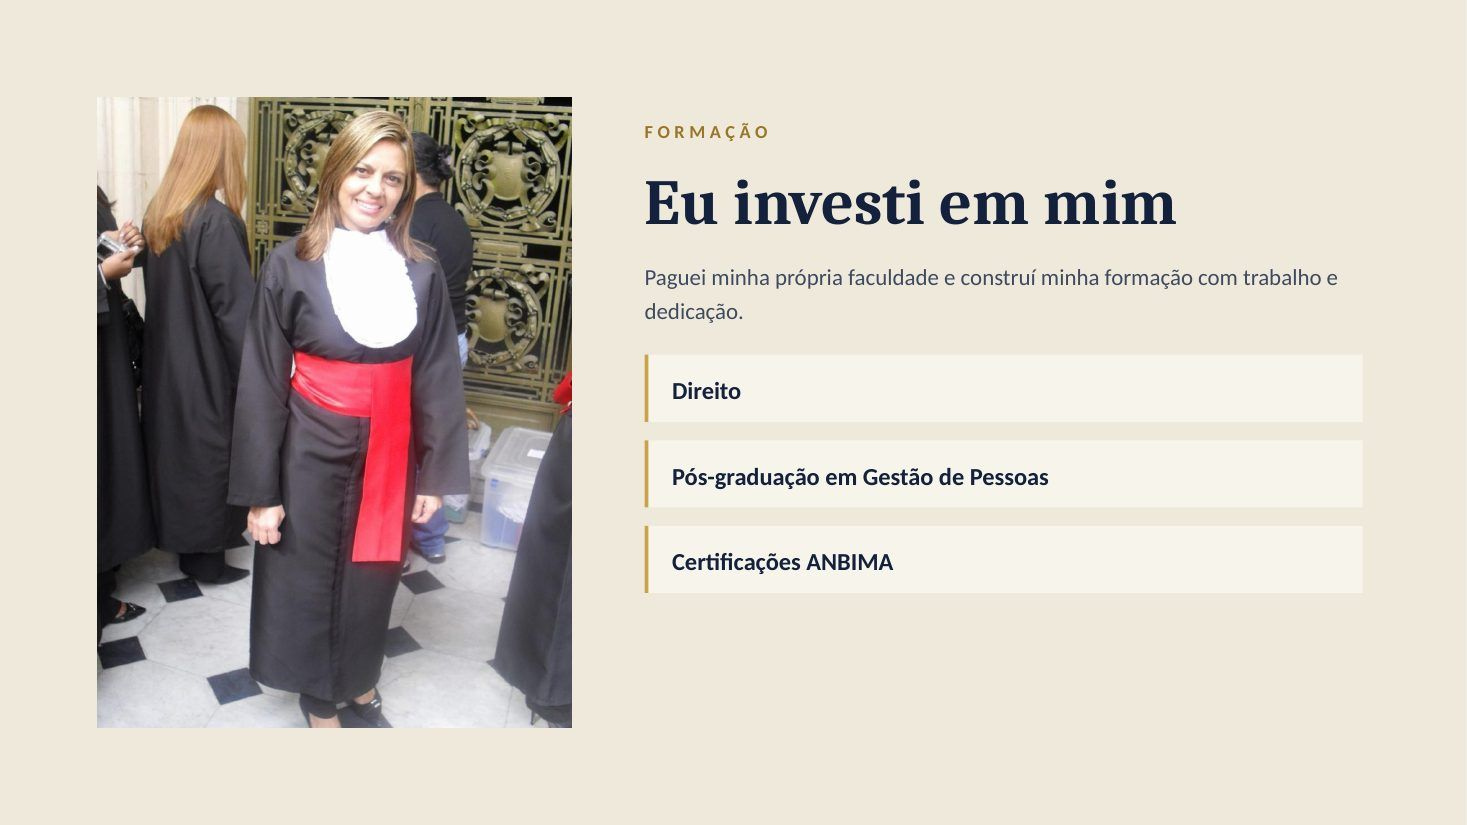
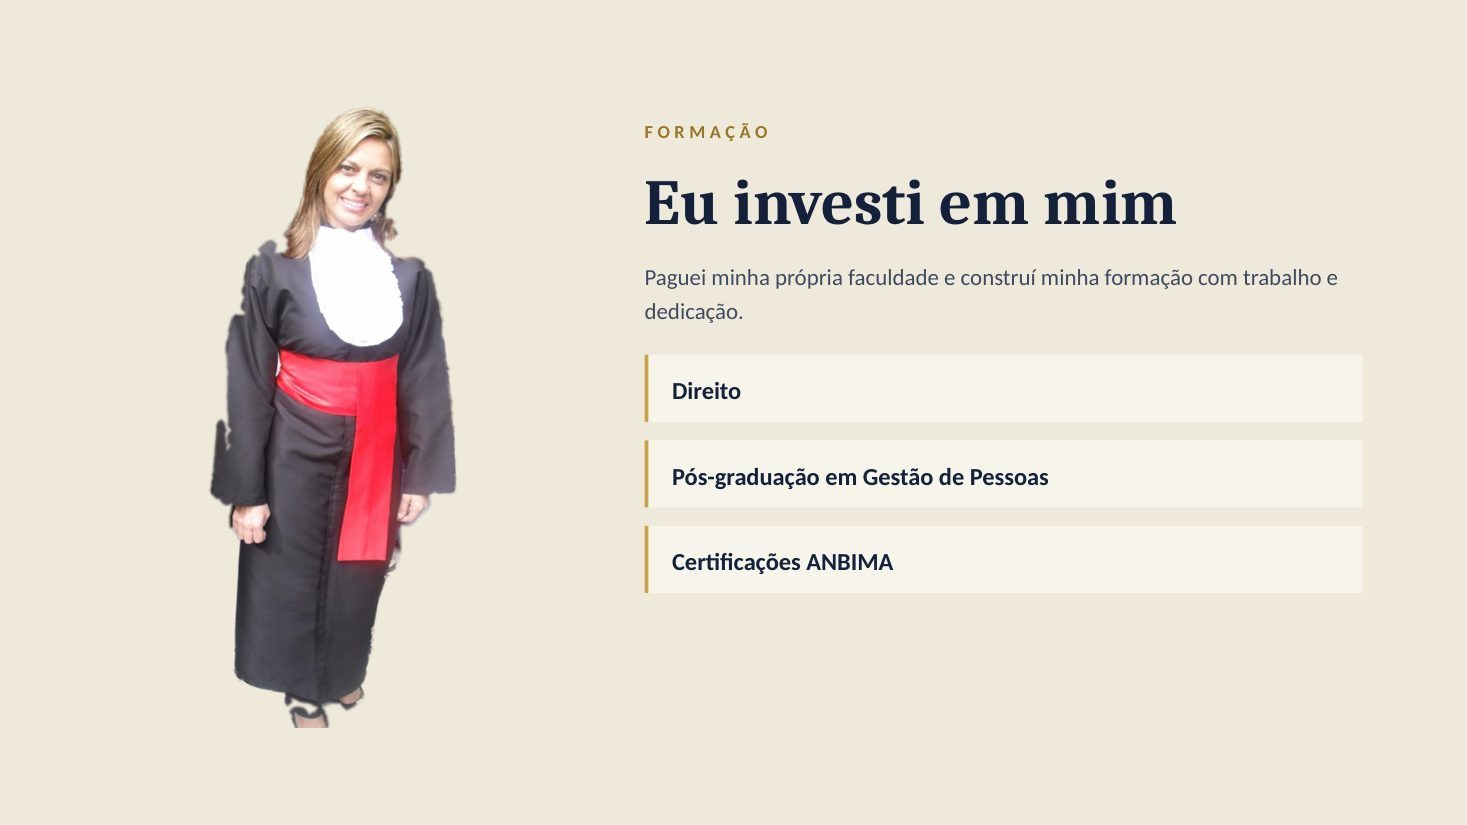
Treinamento: foto da formatura sem fundo (página e slide 3)
Claude-Session: https://claude.ai/code/session_01QDssJNsQ9zSiGWVNPxTprQ

Changed region(s): [[0.0613, 0.0909, 0.3988, 0.8788]]

diff --git a/src/pages/Treinamento.tsx b/src/pages/Treinamento.tsx
@@ -87,7 +87,7 @@ export default function Treinamento() {
       {/* Formação */}
       <section className="bg-secondary/50 py-16 lg:py-20">
         <div className="container-prose grid items-center gap-10 lg:grid-cols-2">
-          <Foto src="formatura.jpg" alt="Marta Cury na formatura de Direito" className="order-2 max-h-[520px] lg:order-1" />
+          <img src={img("formatura-sem-fundo.png")} alt="Marta Cury na formatura de Direito" loading="lazy" className="order-2 mx-auto max-h-[560px] w-auto object-contain lg:order-1" />
           <div className="order-1 lg:order-2">
             <Rotulo>Formação</Rotulo>
             <h2 className="mt-3 font-display text-4xl text-foreground">Eu investi em mim</h2>
